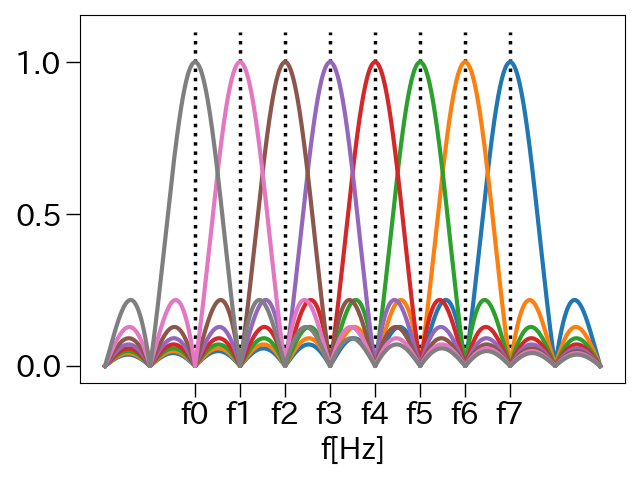
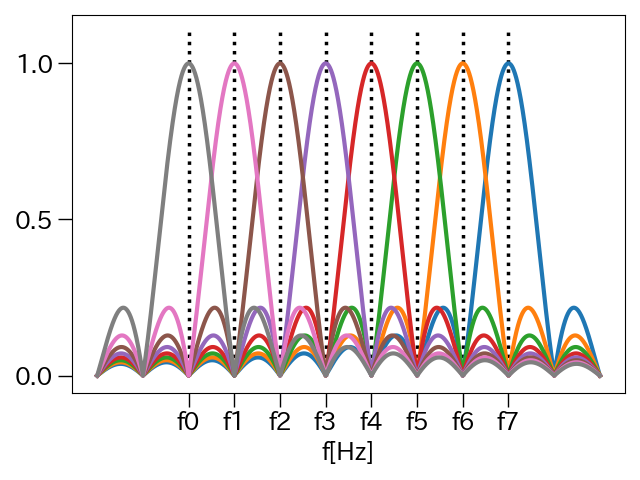
docs/paper: update

diff --git a/docs/paper/scripts/ofdm-sinc-spectrum.py b/docs/paper/scripts/ofdm-sinc-spectrum.py
@@ -34,7 +34,7 @@ plt.yticks([0.0, 0.5, 1.0])
 # メモリの向きを内側にする。plt.plotの前に呼び出す必要あり。
 plt.rcParams["xtick.direction"] = "in"
 plt.rcParams["ytick.direction"] = "in"
-plt.tick_params(width=1, length=10, labelsize=22)
+plt.tick_params(width=1, length=10, labelsize=18)
 
 plt.vlines(
     np.arange(SUBCARRIER_NUMBER),
@@ -49,8 +49,7 @@ for i in range(SUBCARRIER_NUMBER):
     # 左から見ていったときに左側のグラフが先で重ならないようにする。そっちのほうが見やすいので。
     plt.plot(f, X[SUBCARRIER_NUMBER - i - 1], linewidth=3)
 
-plt.xlabel("f[Hz]", fontsize=22)
-# plt.ylabel("スペクトル", fontsize=22)
+plt.xlabel("f[Hz]", fontsize=18)
 
 plt.tight_layout()
 
